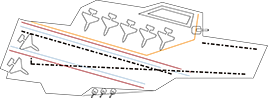
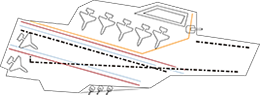
captura de posicion nave en el mapa

diff --git a/funcionesgenerales.py b/funcionesgenerales.py
@@ -1,6 +1,11 @@
 #Libraries
 import pygame
+from decimal import Decimal, ROUND_HALF_UP
 import sys
+import numpy as np
+import pandas as pd
+def round_well(num):
+     return Decimal(num).quantize(0,ROUND_HALF_UP)
 class Cursor(pygame.Rect):
      def __init__(self):
           pygame.Rect.__init__(self,0,0,1,1)
@@ -27,6 +32,8 @@ class Barco(pygame.sprite.Sprite):
           self.imagen_actual=self.imagen_normal
           self.rect=self.imagen_actual.get_rect()
           self.rect.left,self.rect.top=(x,y)
+          self.h=round_well(pygame.Surface.get_width(self.imagen_normal)/50)
+          self.v=round_well(pygame.Surface.get_height(self.imagen_normal)/50)
      def update(self,pantalla,cursor):
           if cursor.colliderect(self.rect):
                self.imagen_actual=self.imagen_seleccion
@@ -36,7 +43,15 @@ class Barco(pygame.sprite.Sprite):
      def mover(self,cursor):
           if cursor.colliderect(self.rect):
                pass
-          else: self.rect.left,self.rect.top=pygame.mouse.get_pos()
+          else:
+               self.rect.left,self.rect.top=pygame.mouse.get_pos()
+               if self.rect.left<10:
+                    self.rect.left=10
+               if self.rect.top<100:
+                    self.rect.top=100
+               #if self.rect.left-pygame.Surface.get_width(self.imagen_normal)>570:
+               #if self.rect.top-pygame.Surface.get_height(self.imagen_normal)>460:
+               
      def rotar(self,angulo):
           imagen_actual=pygame.transform.rotate(self.imagen_normal,angulo)
           self.imagen_normal=imagen_actual
@@ -44,3 +59,20 @@ class Barco(pygame.sprite.Sprite):
           self.imagen_actual=imagen_actual
           self.rect=imagen_actual.get_rect()
           self.rect.left,self.rect.top=pygame.mouse.get_pos()
+          self.h=round_well(pygame.Surface.get_width(self.imagen_normal)/50)
+          self.v=round_well(pygame.Surface.get_height(self.imagen_normal)/50)
+     def obtenerposicion(self,dimension,p_inicio,actual):
+          xr,yr=self.rect.left,self.rect.top
+          for i in range(10):
+               for j in range(10):
+                    x=i*dimension+p_inicio[0]
+                    y=j*dimension+p_inicio[1]
+                    if (xr>=x)and(xr<=x+dimension)and(yr>=y)and(yr<=y+dimension):
+                         actual=[i,j]
+          result=[]
+          result.append(actual)
+          for i in range(0,int(self.h)):
+               for j in range(0,int(self.v)):
+                    result.append([actual[0]+i,actual[1]+j])
+        
+          return result

diff --git a/s_juego.py b/s_juego.py
@@ -1,5 +1,7 @@
 def juego():
      import pygame
+     import numpy as np
+     import pandas as pd
      import sys
      import funcionesgenerales
      from player import Player
@@ -15,6 +17,9 @@ def juego():
      btn_1v1=pygame.image.load('img/atras.png')
      btn_1v12=pygame.image.load('img/atras2.png')
      boton1=funcionesgenerales.Boton(btn_1v1,btn_1v12,10,10)
+     btn_confirmar=pygame.image.load('img/btnconfirmarjugada.png')
+     btn_confirmar2=pygame.image.load('img/btnconfirmarjugada2.png')
+     botonconfirmarjugada=funcionesgenerales.Boton(btn_confirmar,btn_confirmar2,600,600)
 
      #objeto barco
      imagenbarco1=pygame.image.load('img/barco31.png')
@@ -43,6 +48,8 @@ def juego():
      #
      n=Network()
      p = n.getP()
+     #mapa
+     df=pd.DataFrame(np.array([[0,0,0,0,0,0,0,0,0,0],[0,0,0,0,0,0,0,0,0,0],[0,0,0,0,0,0,0,0,0,0],[0,0,0,0,0,0,0,0,0,0],[0,0,0,0,0,0,0,0,0,0],[0,0,0,0,0,0,0,0,0,0],[0,0,0,0,0,0,0,0,0,0],[0,0,0,0,0,0,0,0,0,0],[0,0,0,0,0,0,0,0,0,0],[0,0,0,0,0,0,0,0,0,0]]))
      #game loop
      listabarcos=[]
      cuentabarcos=0
@@ -128,6 +135,14 @@ def juego():
                                    barcomoviendo=False
                               else:
                                    barcomoviendo=True
+                    if cursor1.colliderect(botonconfirmarjugada.rect):
+                         if cuentabarcos>0:
+                              pos=listabarcos[cuentabarcos-1].obtenerposicion(54,[10,100],[0,0])
+                              print(pos)
+                              for x in pos:
+                                   df.iloc[x[1]][x[0]]=1
+                         print("DataFrame:")
+                         print(df)
           battleship.fill((50,150,200))
           cursor1.update()
           fondomapai.update(battleship,cursor1)
@@ -137,6 +152,7 @@ def juego():
           crearbarco3.update(battleship,cursor1)
           crearbarco4.update(battleship,cursor1)
           crearbarco5.update(battleship,cursor1)
+          botonconfirmarjugada.update(battleship,cursor1)
           boton1.update(battleship,cursor1)
           for barco in listabarcos:
                barco.update(battleship,cursor1)
